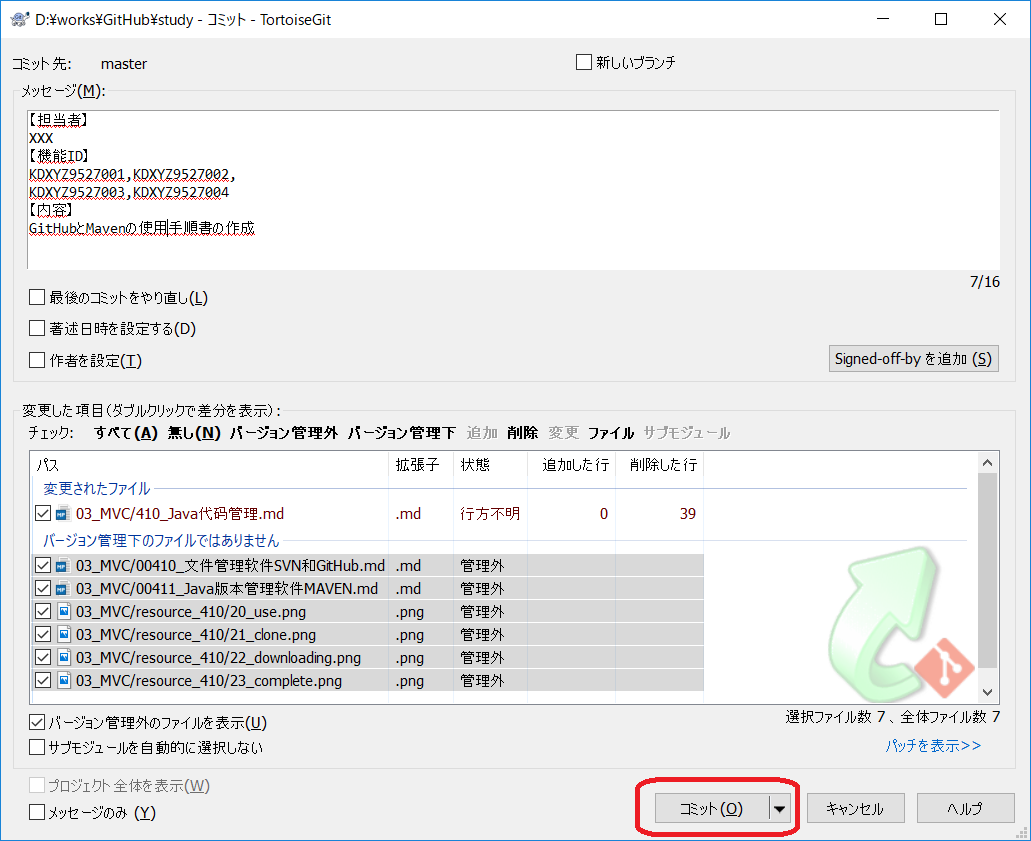
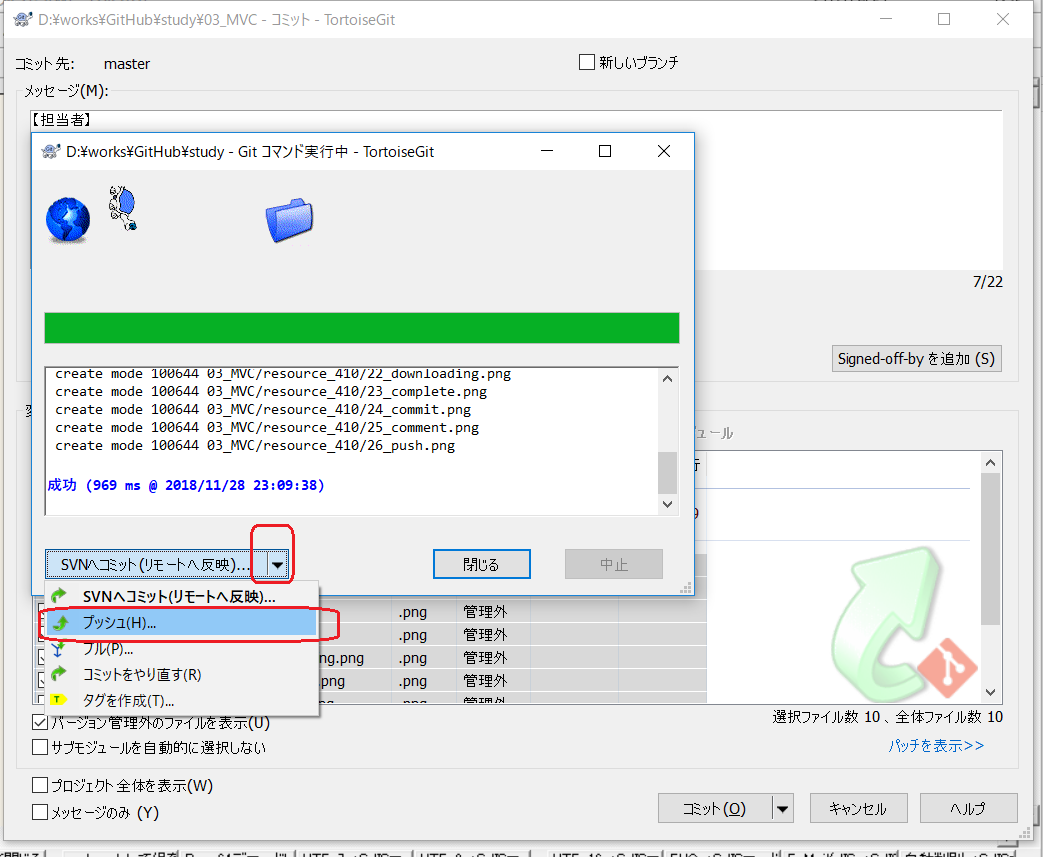
【担当者】 XXX 【機能ID】 KDXYZ9527001,KDXYZ9527002, KDXYZ9527003,KDXYZ9527004 【内容】 GitHubとMavenの使用手順書の作成

diff --git a/03_MVC/00410_文件管理软件SVN和GitHub.md b/03_MVC/00410_文件管理软件SVN和GitHub.md
@@ -46,8 +46,12 @@ http://www.aise.ics.saitama-u.ac.jp/~gotoh/HowToInstallTortoiseGit.html#toc1
   - 
 ![410_23](https://github.com/wangdl000/study/blob/master/03_MVC/resource_410/23_complete.png)  
   - 3.提交（コミット）方法（需要权限）  
-![410_23](https://github.com/wangdl000/study/blob/master/03_MVC/resource_410/24_commit.png)  
+![410_24](https://github.com/wangdl000/study/blob/master/03_MVC/resource_410/24_commit.png)  
   - 4.提交文件选择和日志  
-![410_23](https://github.com/wangdl000/study/blob/master/03_MVC/resource_410/25_comment.png)  
+![410_25](https://github.com/wangdl000/study/blob/master/03_MVC/resource_410/25_comment.png)  
   - 5.PUSH（GitHub特有）  
-![410_23](https://github.com/wangdl000/study/blob/master/03_MVC/resource_410/26_push.png)  
+![410_26](https://github.com/wangdl000/study/blob/master/03_MVC/resource_410/26_push.png)  
+   
+![410_27](https://github.com/wangdl000/study/blob/master/03_MVC/resource_410/27_push2.png)  
+    
+![410_28](https://github.com/wangdl000/study/blob/master/03_MVC/resource_410/28_commit_complete.png) 
